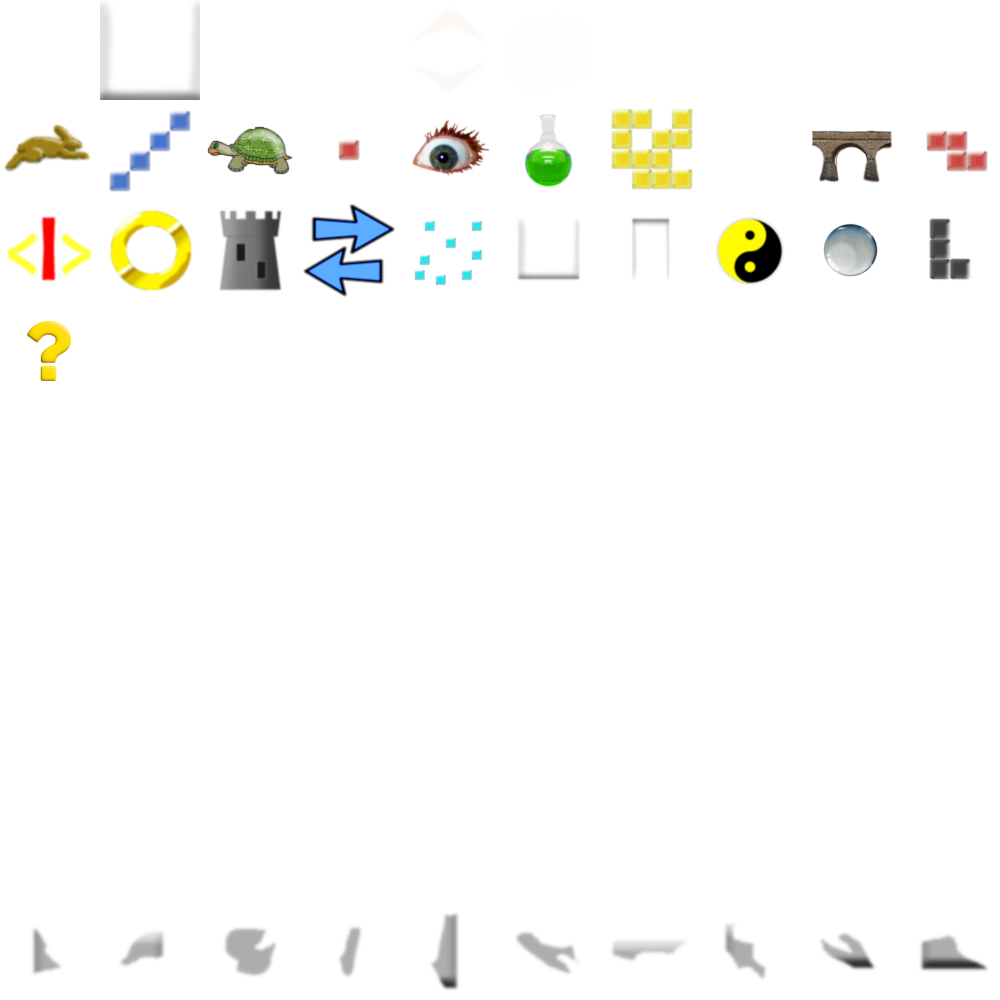
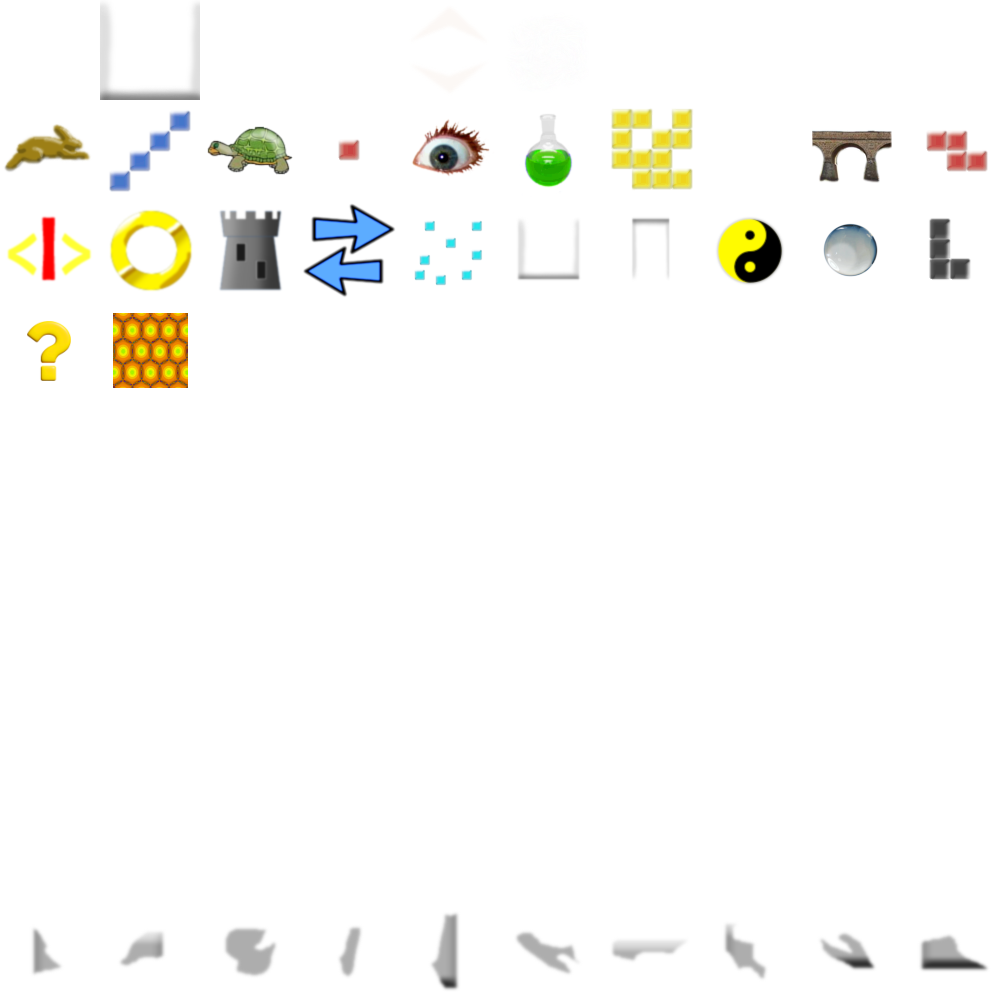
New Special: Change background

Changed region(s): [[0.093, 0.31, 0.186, 0.403]]

diff --git a/World/Specials.cs b/World/Specials.cs
@@ -28,6 +28,7 @@ namespace Eitrix
         NoHints,
         Blindness,
         JunkYard,
+        ChangeBackground,
         NumberOfSpecials
     }
 
@@ -104,6 +105,7 @@ namespace Eitrix
                 case SpecialType.NoHints: newSpecial = new Special.NoHints(owner, world); break;
                 case SpecialType.Blindness: newSpecial = new Special.Blindness(owner, world); break;
                 case SpecialType.JunkYard: newSpecial = new Special.JunkYard(owner, world); break;
+                case SpecialType.ChangeBackground: newSpecial = new Special.ChangeBackground(owner, world); break;
                 default: newSpecial = null; break;
             }
 
@@ -149,6 +151,30 @@ namespace Eitrix
 
         ///------------------------------------------------------------------------------
         /// <summary>
+        /// ChangeBackground
+        /// </summary>
+        ///------------------------------------------------------------------------------
+        public class ChangeBackground : Special
+        {
+            public override SpecialType SpecialType { get { return SpecialType.ChangeBackground; } }
+
+            public ChangeBackground(Player owner, World world)
+                : base(owner, world)
+            {
+                world.AudioTool.PlaySound(SoundEffectType.Docoe);
+
+                Victim.BackGround = Globals.rand.Next(Globals.GridCount);
+            }
+
+            public override void Update()
+            {
+                // Do Nothing!
+            }
+        }
+        
+
+        ///------------------------------------------------------------------------------
+        /// <summary>
         /// Junk Yard - randomize grid
         /// </summary>
         ///------------------------------------------------------------------------------
@@ -182,10 +208,10 @@ namespace Eitrix
 
                 yInvIdx = Victim.Grid.Height;
                 brickTimer = new TimeWatcher(0);
-                
+
                 double pitchFactor = (Globals.rand.Next(50) + 75) / 100.0;
                 double pitch = Math.Log2(pitchFactor);
-                world.AudioTool.PlaySound(SoundEffectType.Docoe, 1, (float) pitch, 0);
+                world.AudioTool.PlaySound(SoundEffectType.Docoe, 1, (float)pitch, 0);
             }
 
             public override void Update()

diff --git a/Tools/Drawing/DefaultDrawTool.cs b/Tools/Drawing/DefaultDrawTool.cs
@@ -200,7 +200,7 @@ namespace Eitrix
                 Textures.HelpPage.Add(SafeLoadTexture(Content, "Images/HelpPage" + i.ToString("00")));
             }
 
-            for (int i = 0; i < 11; i++)
+            for (int i = 0; i < Globals.GridCount; i++)
             {
                 Textures.Grid.Add(SafeLoadTexture(Content, "Images/Grid" + i.ToString("00")));
             }
@@ -532,7 +532,7 @@ namespace Eitrix
 
                 if (player.BackGround == -1)
                 {
-                    player.BackGround = Globals.rand.Next(7);
+                    player.BackGround = Globals.rand.Next(Globals.GridCount);
                 }
 
                 DrawObject(drawX, drawY, (actualPosition) =>

diff --git a/Globals.cs b/Globals.cs
@@ -28,6 +28,7 @@ namespace Eitrix
         public const int ComputerPlayerId = 20000;
         public const int KeyBoardPlayerBaseId = 1000; 
         public const int HelpPages = 3;
+        public const int GridCount = 12;
 
 
         public static Random rand = new Random();
